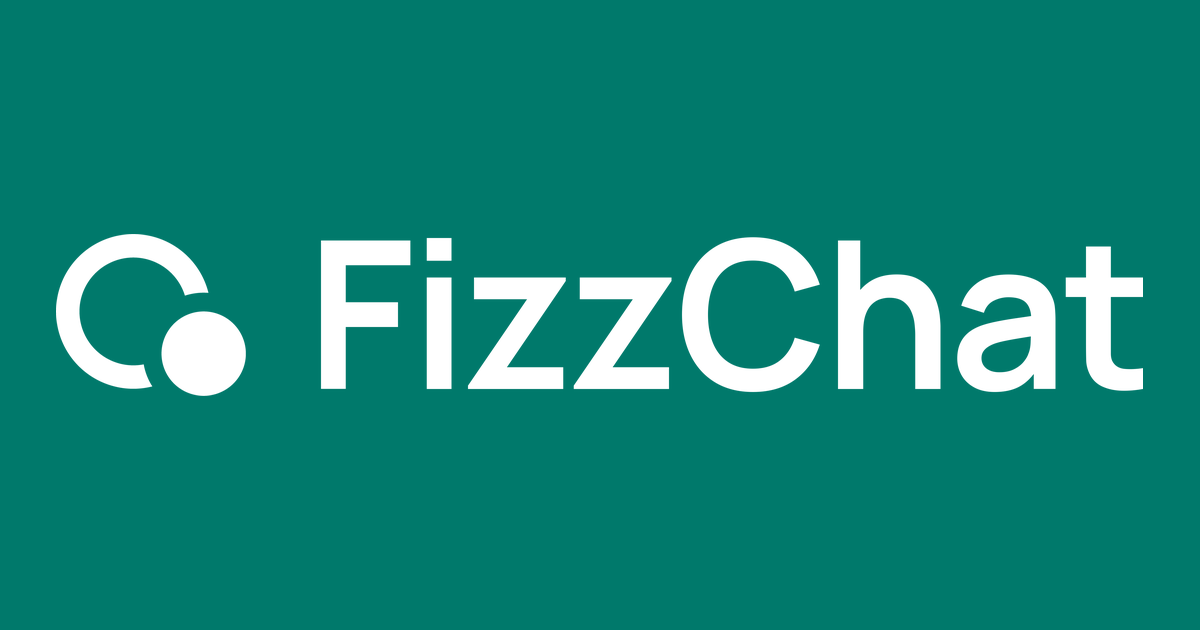
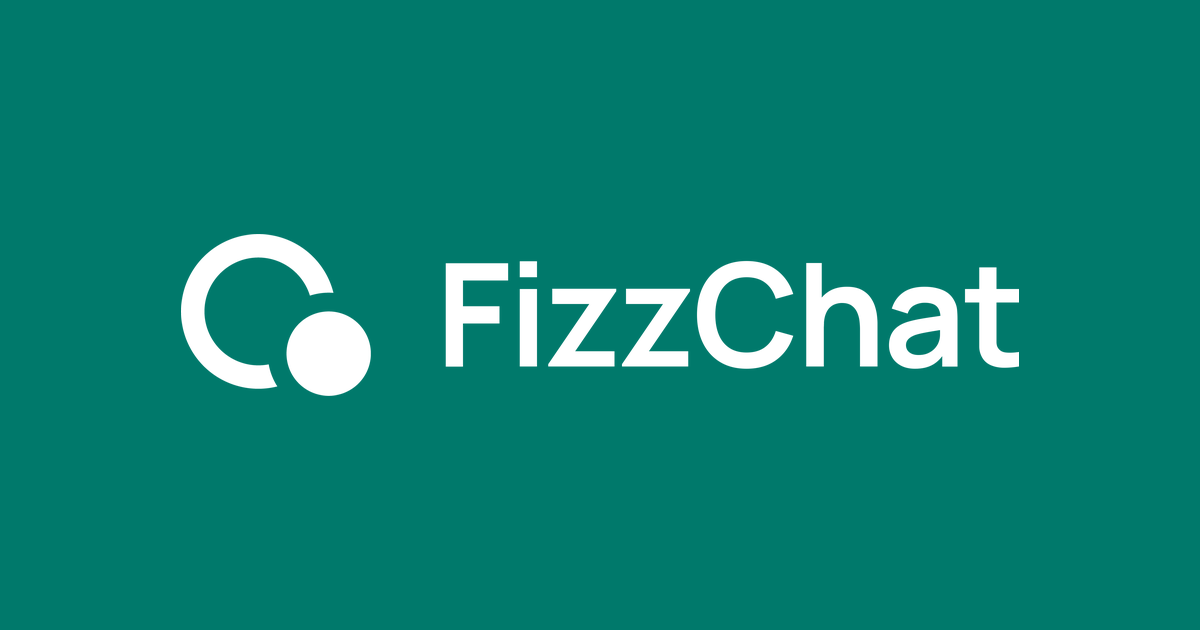
feat: 首屏用品牌资产包横排组合标（比例1.5）替换纯文字顶栏与蓝紫渐变主标题
- 顶栏「FizzChat 气泡」纯文字改为组合标图片（logo-onDark.svg），与首屏同一份资产
- 首屏组合标按高度重新定尺寸（56/88px），标志明显比字母高（新比例1.5，旧版1.09）
- 主标题第一行蓝紫渐变改为品牌色纯色文字，删除未用的 .text-gradient 规则
- 修正 i18n.ts 4 处「FizzChat 气泡」中英拼接为「气泡」

Changed region(s): [[0.0308, 0.3619, 0.9558, 0.6333]]

diff --git a/app/page.tsx b/app/page.tsx
@@ -141,9 +141,15 @@ export default function Home() {
       {/* Top Nav */}
       <header className="fixed top-0 left-0 right-0 z-40 border-b border-line glass">
         <div className="mx-auto flex h-14 max-w-6xl items-center justify-between px-4 sm:px-6">
-          <span className="text-base font-semibold tracking-tight text-ink sm:text-lg">
-            {dict.brand}
-          </span>
+          {/* 顶栏品牌标记 —— 与首屏同一份资产（specs/brand/wordmark/wordmark-en-horizontal-onDark.svg，
+              品牌资产包唯一真源，禁止手改/另画）。不再用纯文字「FizzChat 气泡」：
+              一是品牌规范禁止中英拼接，二是顶栏本该有图形标志而不是纯文字（对照主流站点）。 */}
+          {/* eslint-disable-next-line @next/next/no-img-element */}
+          <img
+            src="/logo-onDark.svg"
+            alt={dict.brand}
+            className="h-6 w-auto object-contain sm:h-7"
+          />
           <button
             onClick={toggleLang}
             aria-label="Toggle language"
@@ -162,14 +168,18 @@ export default function Home() {
         <div className="relative mx-auto max-w-5xl px-4 text-center sm:px-6">
           {/* Hero Logo —— 来源 specs/brand/wordmark/wordmark-en-horizontal-onDark.svg
               （品牌资产包唯一真源，本仓不许自己再画一版）。深色底用反白版。
-              旧的 /logo.png 是 2MB 蓝紫渐变「F」闪电，违反 DESIGN.md「禁蓝紫渐变」，已销毁。 */}
+              旧的 /logo.png 是 2MB 蓝紫渐变「F」闪电，违反 DESIGN.md「禁蓝紫渐变」，已销毁。
+              尺寸：BRAND_KIT.md §3.6 把组合标比例定为「标志墨迹高 : 字标墨迹高 = 1.5」后，
+              这份 SVG 的 viewBox 高度就等于标志墨迹高，渲染高度直接等于标志墨迹高。
+              取值对齐 specs/reports/WEBSITE_LOGO_RATIO.md 的主流实测结论——标志应比正文
+              标题更醒目：移动端标题 36px → 标志 56px（≈1.6×）；桌面标题 60px → 标志 88px
+              （≈1.5×），两档都高于「标志高 ≥ 标题字号 1.2 倍」的下限。 */}
           <div className="animate-fade-up flex justify-center">
             {/* eslint-disable-next-line @next/next/no-img-element */}
             <img
               src="/logo-onDark.svg"
               alt={dict.brand}
-              className="h-auto w-[220px] sm:w-[300px]"
-              style={{ objectFit: 'contain' }}
+              className="h-14 w-auto object-contain sm:h-[88px]"
             />
           </div>
 
@@ -189,7 +199,9 @@ export default function Home() {
 
             {/* Title: 32px gap from badge, 16px gap between lines */}
             <h1 className="animate-fade-up mt-8 text-4xl font-semibold tracking-tight text-ink sm:text-6xl">
-              <span className="block text-gradient">{dict.titleLine1}</span>
+              {/* 品牌主色文字，替换原蓝紫渐变（DESIGN.md 设计禁忌「❌ 蓝紫渐变配色」）。
+                  不做整站重设计（T-P1-101 另议），仅收窄到这一处主标题。 */}
+              <span className="block text-brand-teal">{dict.titleLine1}</span>
               <span className="mt-4 block text-ink">{dict.titleLine2}</span>
             </h1>
 

diff --git a/lib/i18n.ts b/lib/i18n.ts
@@ -47,12 +47,12 @@ export interface Dict {
 
 export const DICTS: Record<Lang, Dict> = {
   zh: {
-    brand: 'FizzChat 气泡',
+    brand: '气泡',
     badge: '私密社交 · 邀请制 · 三端同步',
     badgeShort: '私密社交 · 邀请制',
     titleLine1: '和你的小圈子',
     titleLine2: '轻松对话',
-    subtitle: 'FizzChat 气泡，专为小圈子打造的私密即时通讯。点击下载，即刻开始。',
+    subtitle: '气泡，专为小圈子打造的私密即时通讯。点击下载，即刻开始。',
     downloadNow: '立即下载',
     comingSoon: '敬请期待',
     soon: 'Soon',
@@ -78,7 +78,7 @@ export const DICTS: Record<Lang, Dict> = {
       updatedLabel: '最后更新',
       updatedDate: '2026 年 5 月 10 日',
       intro:
-        'FizzChat 气泡（以下简称"我们"或"本应用"）尊重并保护所有用户的个人隐私。本隐私政策说明我们如何收集、使用、存储、共享您的信息，以及您对自己信息的权利。在使用本应用前，请仔细阅读本政策。',
+        '气泡（以下简称"我们"或"本应用"）尊重并保护所有用户的个人隐私。本隐私政策说明我们如何收集、使用、存储、共享您的信息，以及您对自己信息的权利。在使用本应用前，请仔细阅读本政策。',
       backHome: '← 返回首页',
       sections: [
         {
@@ -158,7 +158,7 @@ export const DICTS: Record<Lang, Dict> = {
       updatedLabel: '最后更新',
       updatedDate: '2026 年 5 月 10 日',
       intro:
-        '欢迎使用 FizzChat 气泡（以下简称"本应用"或"我们"）。本服务条款（以下简称"本条款"）是您与我们之间就使用本应用所订立的协议。请您在使用本应用前仔细阅读本条款；当您注册账号、登录或以任何方式使用本应用，即表示您已充分理解并同意本条款的全部内容。',
+        '欢迎使用气泡（以下简称"本应用"或"我们"）。本服务条款（以下简称"本条款"）是您与我们之间就使用本应用所订立的协议。请您在使用本应用前仔细阅读本条款；当您注册账号、登录或以任何方式使用本应用，即表示您已充分理解并同意本条款的全部内容。',
       backHome: '← 返回首页',
       sections: [
         {

diff --git a/app/globals.css b/app/globals.css
@@ -27,13 +27,9 @@ body {
 }
 
 @layer utilities {
-  .text-gradient {
-    background: linear-gradient(135deg, #FFFFFF 0%, #B5BFFF 40%, #D0A8FF 80%);
-    -webkit-background-clip: text;
-    background-clip: text;
-    -webkit-text-fill-color: transparent;
-  }
-
+  /* .text-gradient（蓝紫渐变）已按 DESIGN.md 设计禁忌移除，主标题改用品牌色纯色文字
+     （tailwind.config.ts 的 brand.teal，见 app/page.tsx）。.text-gradient-brand 是
+     Features 区块小标题用的另一处蓝紫渐变，暂不在本次范围内（T-P1-101 另议整站重设计）。 */
   .text-gradient-brand {
     background: linear-gradient(135deg, #5B6CFF 0%, #A855F7 100%);
     -webkit-background-clip: text;

diff --git a/tailwind.config.ts b/tailwind.config.ts
@@ -26,6 +26,9 @@ const config: Config = {
         brand: {
           blue: '#5B6CFF',
           purple: '#A855F7',
+          // 品牌主色（唯一指定，不可更改）。真源：specs/design/tokens.json
+          // color.brand.teal500，与 specs/CLAUDE.md「主色 #00897B」一致。
+          teal: '#00897B',
         },
       },
       fontFamily: {
